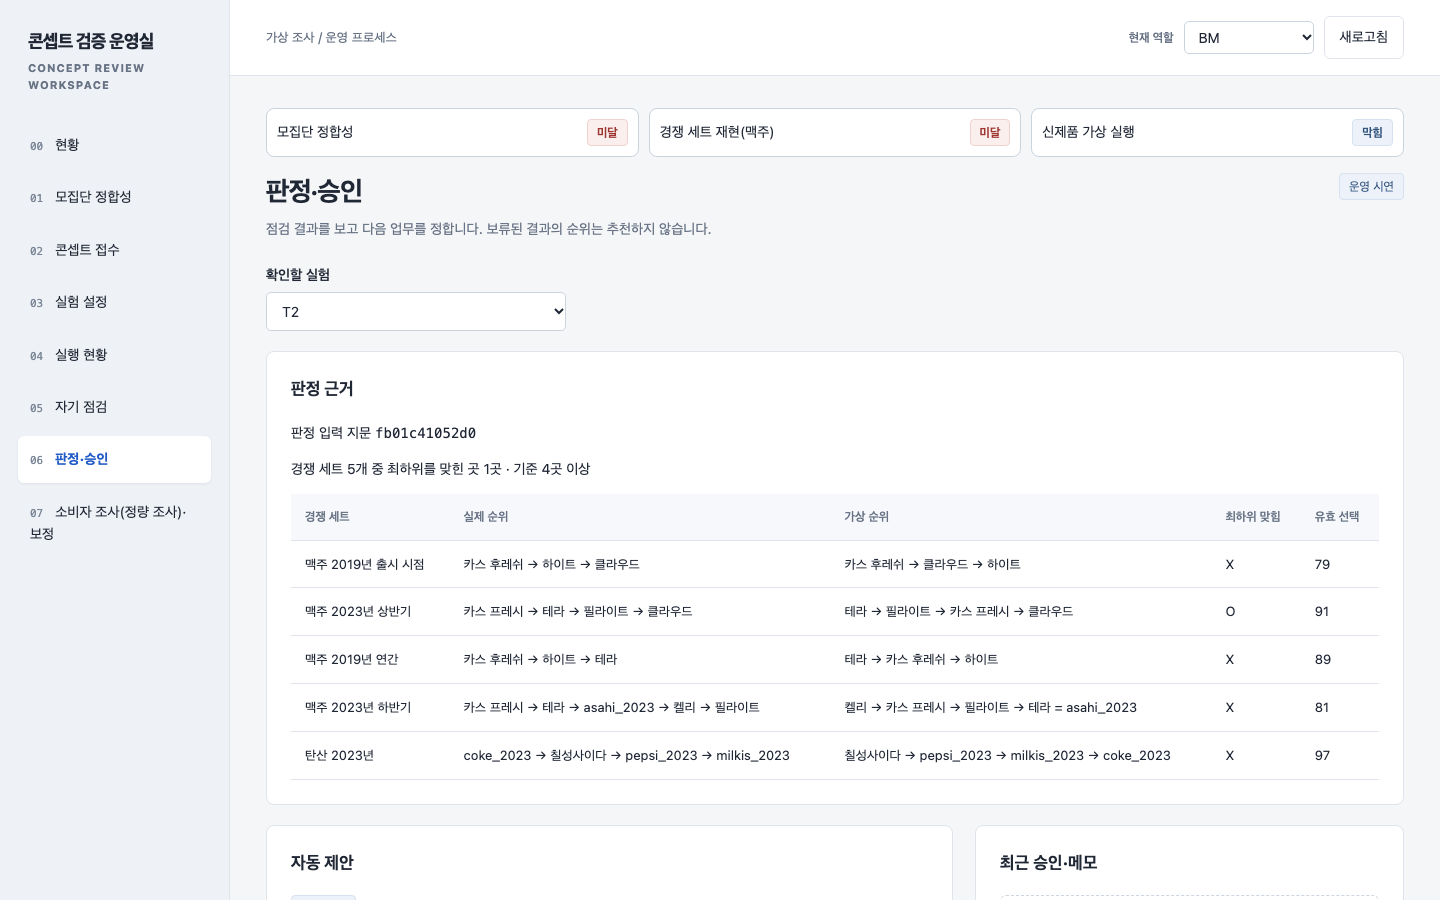
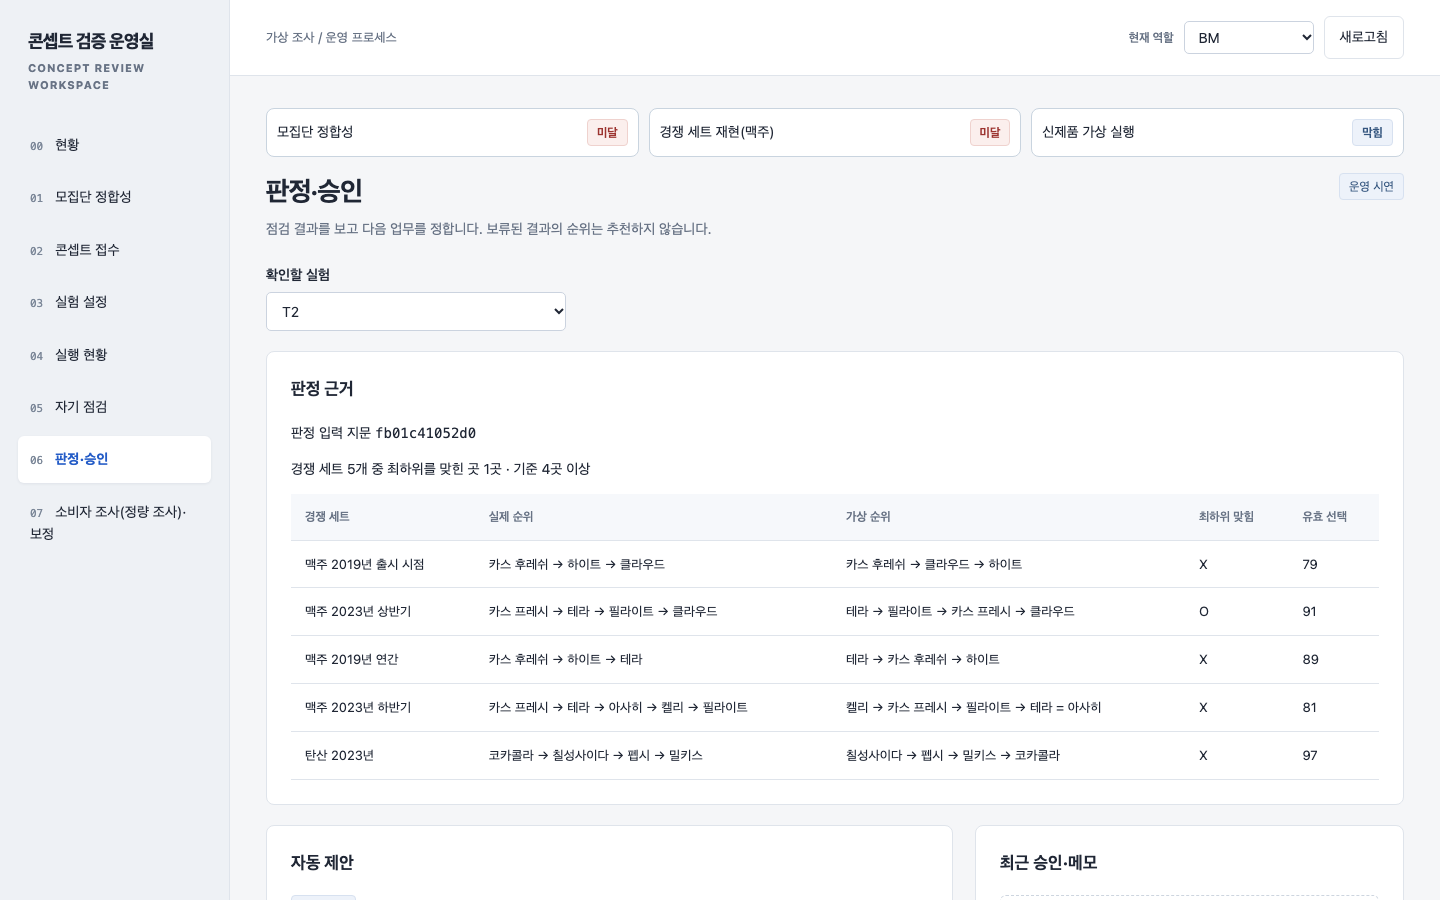
공개 시연판의 판정 지문과 코드 시점 갱신

diff --git a/ops-console/index.html b/ops-console/index.html
@@ -1,6 +1,7 @@
 <!doctype html><html lang="ko"><meta charset="utf-8"><meta name="viewport" content="width=device-width,initial-scale=1"><title>시안 검증 운영실</title><style>
 :root{--bg:#f5f6f8;--ink:#202735;--muted:#687385;--line:#dfe4eb;--blue:#245cc7;--nav:#eaf0f8;--red:#9c3430;--green:#22654e}*{box-sizing:border-box}body{margin:0;font:14px/1.6 -apple-system,BlinkMacSystemFont,"Apple SD Gothic Neo","Malgun Gothic",sans-serif;background:var(--bg);color:var(--ink);word-break:keep-all}button,input,select,textarea{font:inherit}button,select{cursor:pointer}button{border:1px solid var(--line);border-radius:6px;padding:9px 15px;background:white;color:var(--ink)}button:hover{background:#f0f4fa}button.primary{background:var(--blue);border-color:var(--blue);color:white}button:disabled{opacity:.45;cursor:not-allowed}input,select,textarea{width:100%;border:1px solid #cbd3df;border-radius:5px;padding:9px 11px;color:var(--ink);background:white;min-width:0}textarea{min-height:90px;resize:vertical;word-break:break-word}label{display:block;font-weight:600;margin-bottom:6px}.shell{display:grid;grid-template-columns:230px minmax(0,1fr);min-height:100vh}aside{background:#eef1f5;border-right:1px solid var(--line);padding:28px 18px;display:flex;flex-direction:column}.brand{font-size:18px;font-weight:750;letter-spacing:-.7px;margin:0 10px 28px}.brand small{display:block;font-size:11px;letter-spacing:1px;color:var(--muted);margin-top:2px}nav{display:grid;gap:6px}nav button{text-align:left;border:0;background:none;padding:12px}.idx{font:11px ui-monospace,monospace;margin-right:12px;color:#7b8798}nav button.active{background:white;box-shadow:0 1px 3px #182a4612;color:var(--blue);font-weight:700}.navfoot{margin-top:auto;padding:25px 10px 0;color:var(--muted);font-size:12px}.main{min-width:0}header{height:76px;border-bottom:1px solid var(--line);background:white;display:flex;align-items:center;justify-content:space-between;padding:0 36px;gap:20px}.header-label{font-size:13px;color:var(--muted)}.role{display:flex;align-items:center;gap:10px;white-space:nowrap}.role select{width:130px;padding:6px 10px}.role label{margin:0;font-size:12px;color:var(--muted)}main{padding:32px 36px;max-width:1440px;margin:auto}.title{display:flex;justify-content:space-between;align-items:flex-start;gap:18px;margin-bottom:24px}h1{font-size:27px;line-height:1.35;letter-spacing:-.8px;margin:0 0 8px}h2{font-size:17px;margin:0 0 18px}h3{font-size:14px;margin:0 0 10px}.sub{color:var(--muted);margin:0;max-width:72ch}.tag{display:inline-block;font-size:12px;background:#edf2fa;color:#35567f;border:1px solid #d7e1f0;padding:3px 9px;border-radius:4px;white-space:nowrap}.tag.bad{background:#fbefed;color:var(--red);border-color:#efd2ce}.tag.good{background:#edf6f1;color:var(--green);border-color:#cbe3d7}.grid{display:grid;grid-template-columns:minmax(0,1.6fr) minmax(260px,1fr);gap:22px}.card{background:white;border:1px solid var(--line);border-radius:8px;padding:24px;min-width:0;margin-bottom:20px}.stats.ratios{display:flex;flex-wrap:wrap}.stats.ratios strong{font-size:20px}.stats.ratios>div{padding:12px 8px;flex:1 1 100px}.fields{display:grid;grid-template-columns:1fr 1fr;gap:16px}.wide{grid-column:1/-1}.small{font-size:12px;color:var(--muted)}.rule{padding:14px 16px;border-left:3px solid #7499d4;background:#f0f5fc;font-size:13px;margin-bottom:20px;max-width:84ch}.rule.warn{border-color:#b88b36;background:#fbf7ec}.actions{display:flex;gap:10px;flex-wrap:wrap;align-items:center;margin-top:22px}.check{display:flex;align-items:center;gap:8px;font-weight:400;margin:8px 0}.check input{width:auto}.table-wrap{overflow-x:auto;width:100%}table{border-collapse:collapse;width:100%;text-align:left}th{background:#f6f8fb;color:var(--muted);font-weight:600;font-size:12px;white-space:nowrap}th,td{padding:13px 14px;border-bottom:1px solid var(--line);vertical-align:top}td{font-size:13px}tbody tr:hover{background:#fbfcfe}.mono{font-family:ui-monospace,monospace;word-break:keep-all;overflow-wrap:anywhere;font-size:12px}td.mono{white-space:nowrap}.empty{padding:28px 16px;text-align:center;border:1px dashed #cdd5df;color:var(--muted);border-radius:6px}.stats{display:grid;grid-template-columns:repeat(3,1fr);gap:1px;border:1px solid var(--line);border-radius:7px;overflow:hidden;margin:20px 0;background:var(--line)}.stats>div{background:white;padding:18px}.stats strong{display:block;font-size:27px;line-height:1.4;letter-spacing:-.8px}.stats span{font-size:12px;color:var(--muted)}pre{white-space:pre-wrap;word-break:keep-all;overflow-wrap:anywhere;max-width:60em;font:12px/1.8 ui-monospace,monospace;background:#f5f7fa;border:1px solid var(--line);padding:18px;max-height:420px;overflow:auto}details>summary{cursor:pointer;color:var(--blue);padding:10px 0}.flow{display:flex;flex-wrap:wrap;gap:8px;padding:15px;background:#f7f9fc;border:1px solid var(--line);border-radius:6px;margin-bottom:20px}.flow span{font-size:12px;color:var(--muted)}.flow b{color:var(--ink)}.notice{position:fixed;bottom:24px;left:50%;transform:translateX(-50%);max-width:90%;padding:13px 22px;background:#23364f;color:white;box-shadow:0 4px 30px #0002;border-radius:8px;z-index:20}.step{border-top:1px solid var(--line);padding:16px 0}.step:first-of-type{border-top:0;padding-top:0}.step .num{float:left;margin-right:12px;width:24px;height:24px;text-align:center;border:1px solid var(--line);border-radius:100%;font-size:12px}.step p{margin:4px 0 0 36px;font-size:12px;color:var(--muted)}.experiment-select{max-width:300px;margin-bottom:20px}.decision{font-size:32px;letter-spacing:-1px;margin:8px 0}.footer{font-size:11px;color:var(--muted);margin-top:24px}.hidden{display:none!important}.products-item{display:flex;justify-content:space-between;gap:12px;border-bottom:1px solid var(--line);padding:9px 0}.inline{display:flex;gap:8px}.inline select{flex:1}.error{color:var(--red)}@media(max-width:900px){.shell{grid-template-columns:190px minmax(0,1fr)}main{padding:24px 20px}header{padding:0 20px}.grid{grid-template-columns:1fr}}@media(max-width:600px){.shell{display:block}aside{padding:15px;border-right:0;border-bottom:1px solid var(--line)}.brand{margin:0 0 12px}.brand small,.navfoot{display:none}nav{grid-template-columns:repeat(3,1fr);gap:3px}nav button{font-size:11px;padding:8px 4px;text-align:center}.idx{display:none}header{height:auto;min-height:65px;padding:12px 16px;flex-wrap:wrap;gap:6px}main{padding:22px 16px}.title{display:block}.title>.tag{margin-top:10px}h1{font-size:23px}.card{padding:18px}.fields{grid-template-columns:1fr}.ratios{grid-template-columns:repeat(3,1fr)}.stats strong{font-size:22px}.stats>div{padding:12px}.role select{width:120px}.table-wrap{max-width:100%}th,td{padding:10px}.flow{gap:5px}}
  .fit-strip{display:grid;grid-template-columns:repeat(3,minmax(0,1fr));gap:10px;margin-bottom:16px}.fit-strip a{display:flex;gap:5px;align-items:center;justify-content:space-between;background:var(--panel,#fff);padding:10px;border:1px solid #c9d4df;border-radius:8px;text-decoration:none;color:inherit;min-width:0;flex-wrap:wrap}.fit-bars{display:flex;gap:10px;margin:8px 0;flex-wrap:wrap}details{margin:12px 0}summary{cursor:pointer}.table-wrap{max-width:100%;overflow:auto}p,li,td,th{word-break:keep-all;overflow-wrap:anywhere}@media(max-width:650px){.fit-strip{grid-template-columns:1fr}}
+th,td{overflow-wrap:normal;word-break:keep-all}th{white-space:nowrap}
 </style><div class="shell"><aside><div class="brand">시안 검증 운영실<small>CONCEPT REVIEW WORKSPACE</small></div><nav id="nav"></nav><div class="navfoot">로컬 업무 시연<br>역할 전환은 인증 기능이 아닙니다.<br><br>사람 조사에 올릴 후보를 고르는 앞단 도구</div></aside><div class="main"><header><span class="header-label">가상 조사 / 운영 프로세스</span><div class="role"><label for="role">현재 역할</label><select id="role"><option>BM</option><option>조사 담당</option><option>데이터 담당</option></select><button id="refresh">새로고침</button></div></header><main id="content" aria-live="polite"></main></div></div><div id="toast" class="notice hidden" role="status"></div>
 <script src="/fit_view.js"></script><script src="/operation_view.js"></script><script>
 let db={},view=location.hash.slice(1)||'overview',selected='T0',detail=null,competitors=[],setupPane='survey',selectedDiff='default.json',pendingReceipt='';

diff --git a/docs/public.css b/docs/public.css
@@ -6,3 +6,5 @@ p,li,th,td{word-break:keep-all;overflow-wrap:anywhere}p,li{max-width:61ch}p{marg
 .table-wrap{overflow:auto;max-width:100%}table{border-collapse:collapse;width:100%;font-size:14px}th,td{text-align:left;padding:8px;border-bottom:1px solid var(--line);vertical-align:top}th{background:#eef4f8}.fit-bars{display:flex;gap:7px;flex-wrap:wrap}details{margin-block:10px}summary{cursor:pointer}
 footer{font-size:14px;border-top:1px solid var(--line);padding-block:12px 20px}figure{margin:8px 0}img{width:100%;height:auto;border:1px solid var(--line)}input{width:min(100%,350px);padding:6px}label{display:block;font-weight:600}
 @media(max-width:680px){.shell{grid-template-columns:minmax(0,1fr);gap:15px}nav{grid-template-columns:repeat(2,minmax(0,1fr))}nav a{padding:5px}.fit-strip{grid-template-columns:1fr}.card{padding:12px}.wrap{width:calc(100% - 24px)}}
+
+th,td{overflow-wrap:normal;word-break:keep-all}th{white-space:nowrap}

diff --git a/ops-console/static/public.css b/ops-console/static/public.css
@@ -6,3 +6,5 @@ p,li,th,td{word-break:keep-all;overflow-wrap:anywhere}p,li{max-width:61ch}p{marg
 .table-wrap{overflow:auto;max-width:100%}table{border-collapse:collapse;width:100%;font-size:14px}th,td{text-align:left;padding:8px;border-bottom:1px solid var(--line);vertical-align:top}th{background:#eef4f8}.fit-bars{display:flex;gap:7px;flex-wrap:wrap}details{margin-block:10px}summary{cursor:pointer}
 footer{font-size:14px;border-top:1px solid var(--line);padding-block:12px 20px}figure{margin:8px 0}img{width:100%;height:auto;border:1px solid var(--line)}input{width:min(100%,350px);padding:6px}label{display:block;font-weight:600}
 @media(max-width:680px){.shell{grid-template-columns:minmax(0,1fr);gap:15px}nav{grid-template-columns:repeat(2,minmax(0,1fr))}nav a{padding:5px}.fit-strip{grid-template-columns:1fr}.card{padding:12px}.wrap{width:calc(100% - 24px)}}
+
+th,td{overflow-wrap:normal;word-break:keep-all}th{white-space:nowrap}

diff --git a/docs/fit_view.js b/docs/fit_view.js
@@ -23,7 +23,8 @@ const FitView = (() => {
         rows.map(([label,v])=>[label,n(v.reference_pct),n(v.pct),interval(v.range_pct),interval(v.ci95_pct),n(v.diff_pp),...(key==='V3'?[rank.indexOf(label)+1]:[])]))}</details>`;
   };
   function fitPage(fit, limits=[], link='') {
-    const d=fit.data, intro=`<p>${badge(fit.status)} ${esc(fit.reason)}</p>`;
+    const d=fit.data, intro=`<p>${badge(fit.status)} ${esc(fit.reason)}</p>`+
+      (fit.warnings||[]).map(w=>`<span class="tag warn">${esc(w)}</span>`).join(' ');
     if (!d) return card('모집단 정합성',intro+`<p>사전 등록 지문 ${esc(fit.prereg_sha256?.slice(0,12))}</p>`);
     const fixture=d.test_fixture?'<p>시험용 요약 · 실제 결과 아님</p>':'';
     const modelRows=d.combos.map(c=>[c.id,c.persona_info,c.model_requested,Object.entries(c.models_returned).map(([k,v])=>k+' '+v+'건').join(', '),c.questionnaire,c.paths.api||0,c.paths.cli||0]);

diff --git a/ops-console/fit_view.js b/ops-console/fit_view.js
@@ -23,7 +23,8 @@ const FitView = (() => {
         rows.map(([label,v])=>[label,n(v.reference_pct),n(v.pct),interval(v.range_pct),interval(v.ci95_pct),n(v.diff_pp),...(key==='V3'?[rank.indexOf(label)+1]:[])]))}</details>`;
   };
   function fitPage(fit, limits=[], link='') {
-    const d=fit.data, intro=`<p>${badge(fit.status)} ${esc(fit.reason)}</p>`;
+    const d=fit.data, intro=`<p>${badge(fit.status)} ${esc(fit.reason)}</p>`+
+      (fit.warnings||[]).map(w=>`<span class="tag warn">${esc(w)}</span>`).join(' ');
     if (!d) return card('모집단 정합성',intro+`<p>사전 등록 지문 ${esc(fit.prereg_sha256?.slice(0,12))}</p>`);
     const fixture=d.test_fixture?'<p>시험용 요약 · 실제 결과 아님</p>':'';
     const modelRows=d.combos.map(c=>[c.id,c.persona_info,c.model_requested,Object.entries(c.models_returned).map(([k,v])=>k+' '+v+'건').join(', '),c.questionnaire,c.paths.api||0,c.paths.cli||0]);
